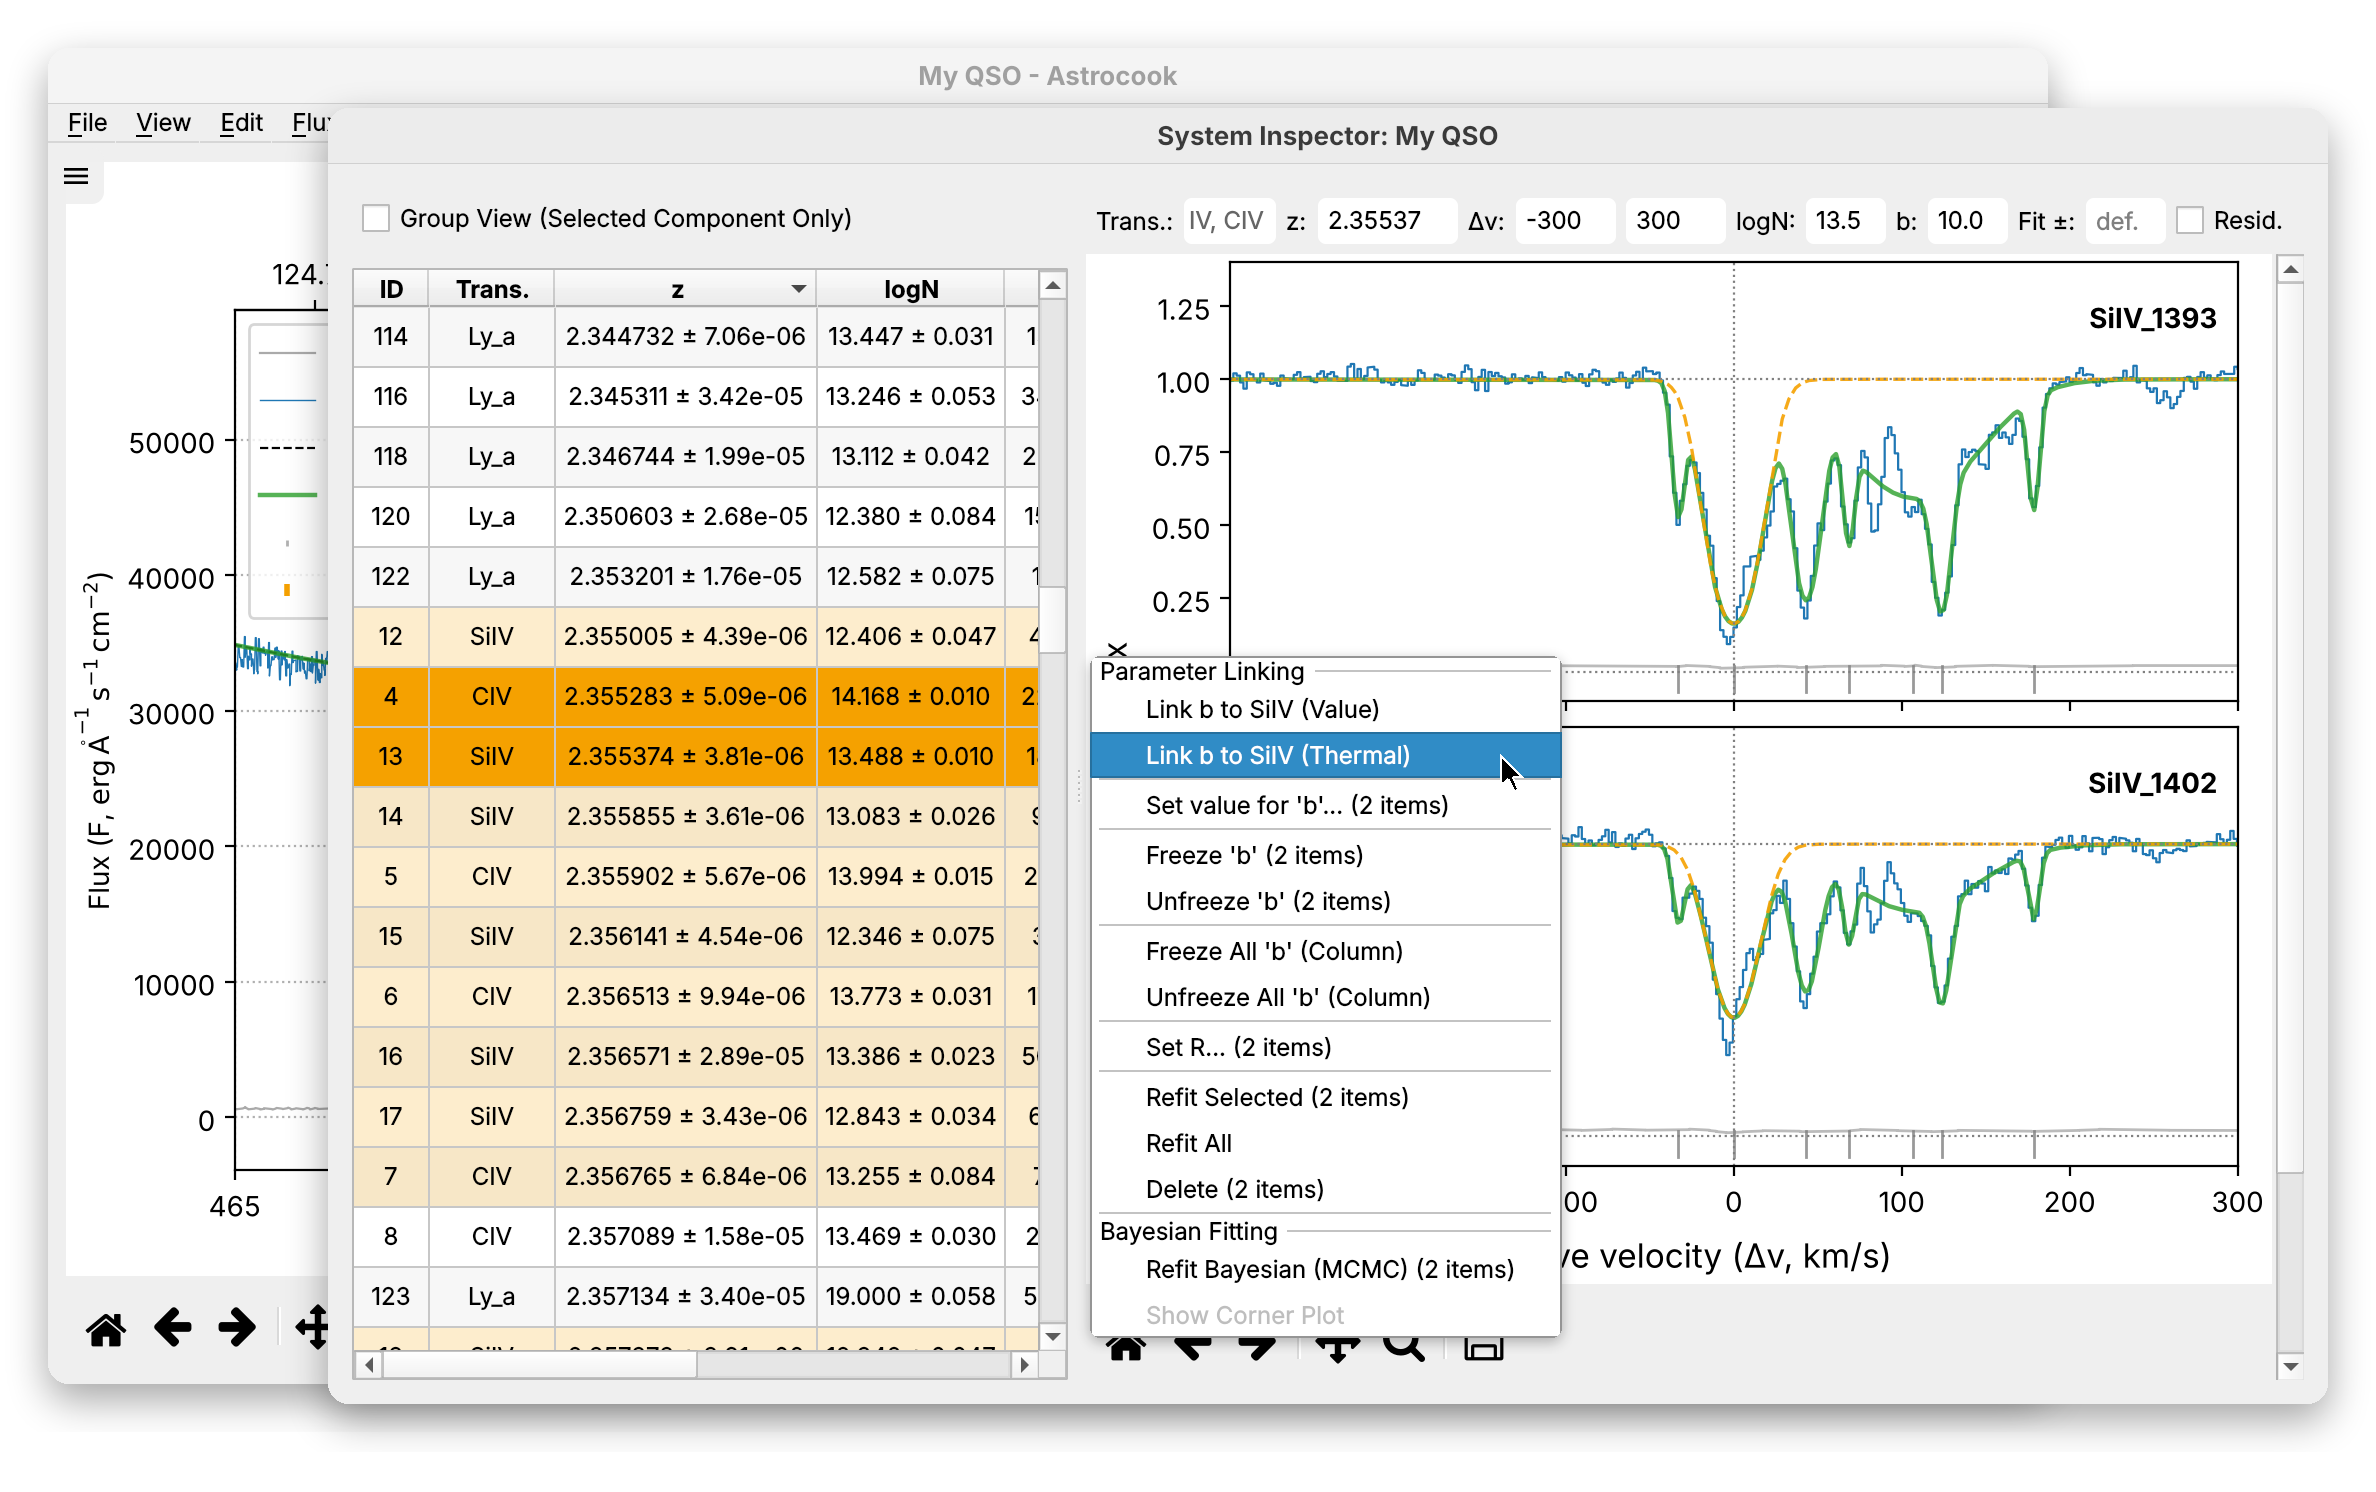
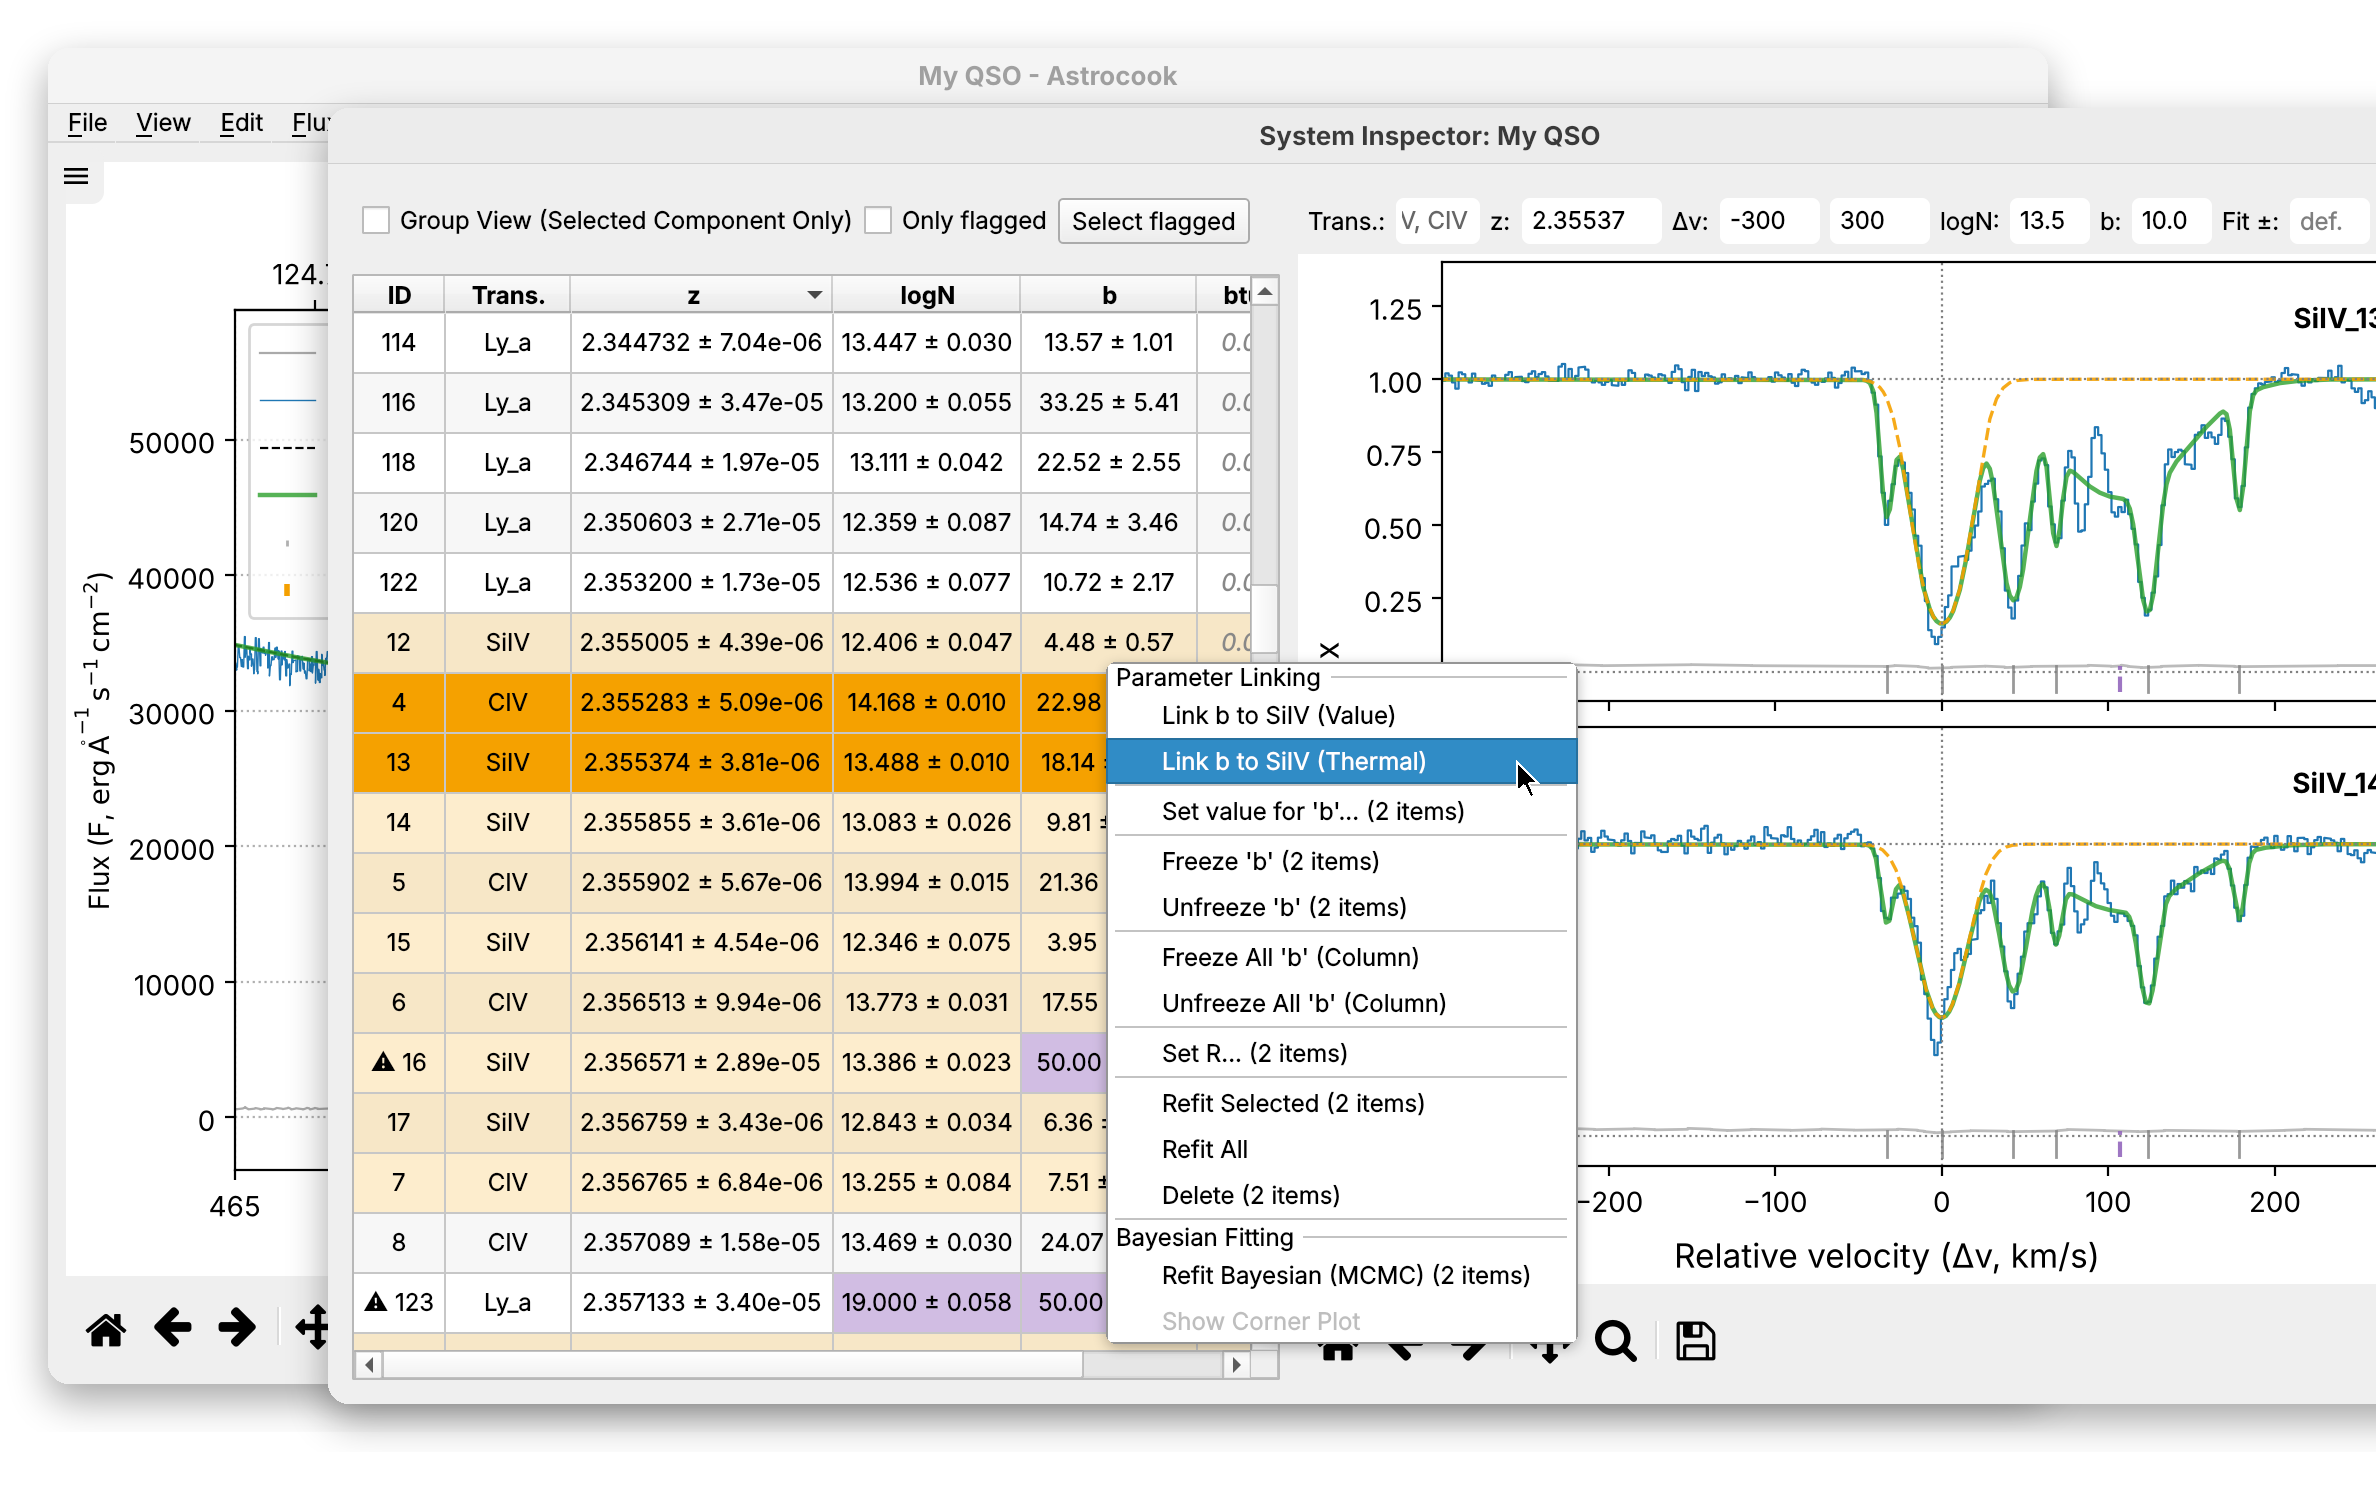
Inspector cues in violet; tutorial screenshots (#517, PR 3)
Violet for the parameters at a bound (Guido's choice): amber, proposed
first, is the colour of the highlighted group (#f5a100). Screenshots of
the System Inspector regenerated (absorbers_system_inspector,
absorbers_linking) and the new absorbers_flags.

Claude-Session: https://claude.ai/code/session_01XgfJb4QMs9ezDxNJ5sXH77

diff --git a/astrocook/gui/system_inspector.py b/astrocook/gui/system_inspector.py
@@ -37,9 +37,11 @@ COLUMNS = list(COL_MAP.keys())
 EDITABLE_COLS = {"z", "logN", "b", "btur"}
 
 # --- Flags of the fit (#517) ---
-#: Colours of the cues: amber for a parameter at a bound of the fit, red for
-#: uncertainties that could not be computed (agreed with Guido)
-FLAG_BOUND_COLOR = "#f5a100"
+#: Colours of the cues: violet for a parameter at a bound of the fit, red for
+#: uncertainties that could not be computed (Guido's choice; amber, proposed
+#: first, is the colour of the highlighted group, #f5a100, and was confused
+#: with it in the screenshots)
+FLAG_BOUND_COLOR = "#9467bd"
 FLAG_NAN_COLOR = "#d62728"
 #: Parameter of each bound flag, and what it means for the user
 _BOUND_FLAGS = {
